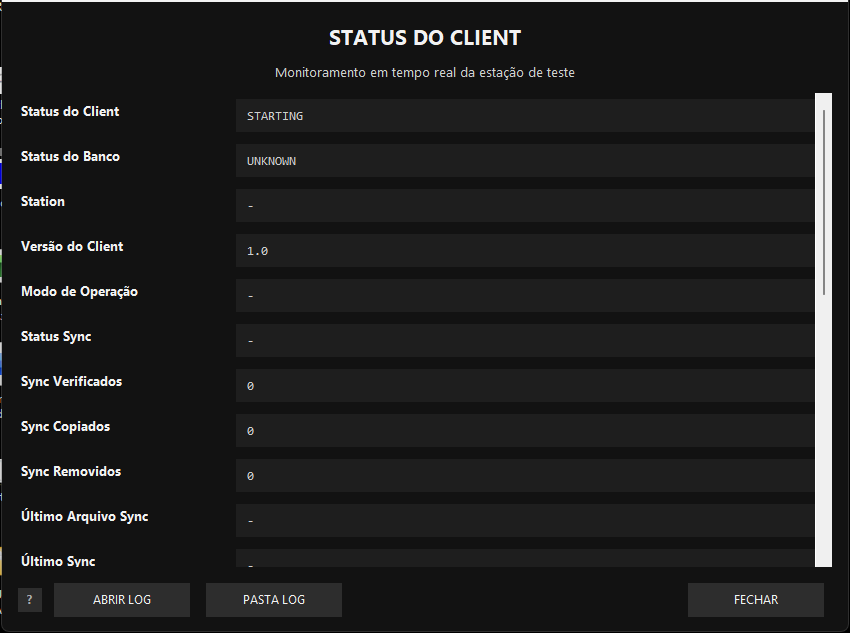
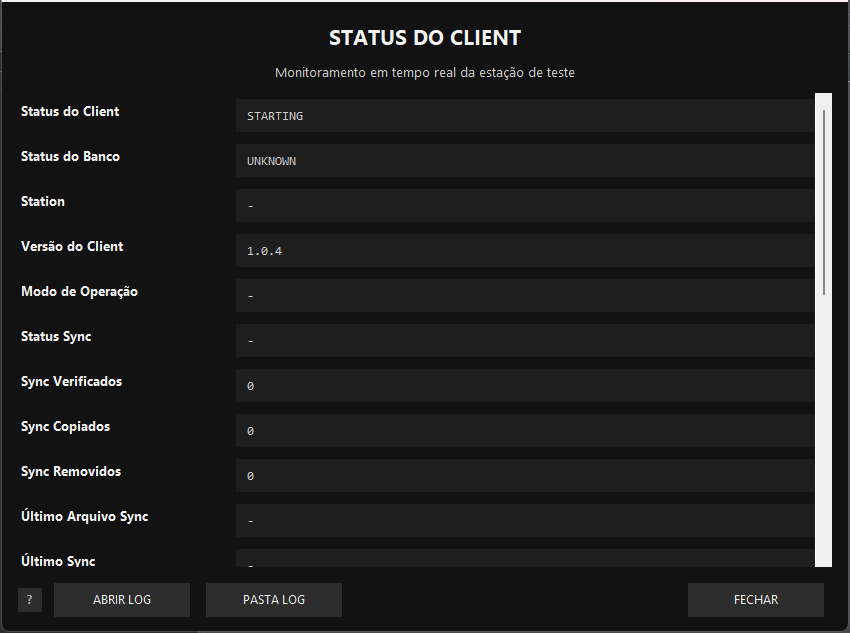
fix: estacao volta coletando sozinha apos reiniciar (auto-login + tarefa)

Changed region(s): [[0.0, 0.0, 1.0, 1.0]]

diff --git a/system/ui_main.py b/system/ui_main.py
@@ -47,6 +47,9 @@ from config.loader import load_config, load_raw_config, save_config, get_base_pa
 from monitor.file_monitor import start_monitor
 from state.app_context import runtime_status
 from system.single_instance import SingleInstance
+from logs.logger_setup import get_logger
+
+logger = get_logger()
 
 
 # -----------------------------------------------------------------------------
@@ -839,12 +842,41 @@ class MESClientUI:
 
         return result[0]
 
+    def _operador_sem_senha(self):
+        """True se o perfil OPERADOR está configurado sem senha.
+
+        Senha de operador vazia já significa, pelo próprio modelo do config,
+        'operador não precisa se autenticar'. Ler isso do disco a cada start
+        mantém a decisão nas mãos do config.yaml, não do código."""
+        try:
+            auth = load_raw_config().get("auth", {}) or {}
+            return not str(auth.get("operador_password", "") or "").strip()
+        except Exception:
+            # Config ilegível: cai no caminho seguro, que é pedir login.
+            return False
+
     def _show_login_then_start(self):
-        if not self._show_login_dialog():
+        # ARRANQUE DESACOMPANHADO
+        # ----------------------
+        # A estação roda 24h e reinicia sozinha. Se o login bloqueasse aqui,
+        # o cliente subiria na bandeja mas o monitor só começaria quando
+        # alguém clicasse ENTRAR — o PC voltaria do boot sem coletar nada,
+        # sem nenhum sinal visível de que está parado.
+        #
+        # Quando OPERADOR não tem senha, entramos direto nesse perfil. Não há
+        # perda de controle: ações restritas (CONFIG, LIMITES, MAPEAMENTO,
+        # STOP, EXIT) continuam passando por _check_role, que pede a senha de
+        # ENGENHARIA. Basta definir auth.operador_password no config.yaml para
+        # a tela de login voltar a aparecer.
+        if self._operador_sem_senha():
+            self.current_role = "operador"
+            logger.info("Auth: OPERADOR sem senha configurada - iniciando sem tela de login.")
+        elif not self._show_login_dialog():
             # os._exit(0): termina o processo imediatamente.
             # sys.exit() lançaria SystemExit que poderia ser capturado — não queremos isso
             # aqui porque o mainloop ainda não iniciou completamente.
             os._exit(0)
+
         self.ensure_monitor_running()
         runtime_status.set("client_status", "RUNNING")
         self.update_status_icon("green")

diff --git a/docs/DEPLOY.md b/docs/DEPLOY.md
@@ -131,6 +131,74 @@ antigo é preservado e continua funcionando, mas a senha continua exposta lá.
 Para migrar essas estações: crie o `.env` à mão e troque a linha `password:`
 do `config.yaml` pelo placeholder.
 
+## Auto-start: a estação voltando a coletar depois de reiniciar
+
+O instalador registra a tarefa **`MES_Client_Autostart`** no Task Scheduler.
+Três detalhes decidem se ela realmente cumpre o papel.
+
+### 1. O gatilho é logon, não boot
+
+`<LogonTrigger />` dispara quando **um usuário faz logon**, não quando a
+máquina liga. Isso é o correto para este app: ele é uma interface gráfica com
+ícone na bandeja e precisa de uma sessão de desktop — como serviço do Windows
+ele não teria onde desenhar o ícone.
+
+Consequência: se a estação reinicia e para na tela de login do Windows, o
+cliente **não sobe**. Para operação desacompanhada, configure o **logon
+automático** do Windows na conta da estação.
+
+### 2. A tarefa fica amarrada à conta que instalou
+
+O `schtasks` grava o SID do usuário que rodou o instalador em
+`<Principal><UserId>`, com `LogonType InteractiveToken`. A tarefa só dispara
+quando **aquela conta** faz logon.
+
+> **Regra prática: instale logado na conta que a estação realmente usa.**
+> Se você instalar com a sua conta de técnico e o operador entrar com outra,
+> o cliente nunca sobe sozinho.
+
+Para conferir em qual conta a tarefa ficou:
+
+```powershell
+schtasks /Query /TN "MES_Client_Autostart" /V /FO LIST | findstr /C:"Run As User"
+```
+
+Para corrigir sem reinstalar, apague e recrie a tarefa logado na conta certa:
+
+```powershell
+schtasks /Delete /TN "MES_Client_Autostart" /F
+```
+
+e reinstale, ou recrie a tarefa manualmente apontando para
+`C:\Utility\MES\MES_Client.exe`.
+
+### 3. Sem senha de operador, o cliente entra sozinho
+
+Até a v1.0.3, o cliente subia e **ficava parado na tela de login** — o monitor
+só começava quando alguém clicava ENTRAR. Uma estação reiniciada de madrugada
+passava a noite inteira sem coletar, com o ícone aparentemente normal.
+
+A partir da v1.0.4, se `auth.operador_password` estiver vazio ou ausente no
+`config.yaml`, o cliente entra direto como OPERADOR e o monitor começa. O log
+registra a decisão:
+
+```
+Auth: OPERADOR sem senha configurada - iniciando sem tela de login.
+```
+
+As ações restritas continuam protegidas: CONFIG, LIMITES, MAPEAMENTO, STOP e
+EXIT pedem a senha de ENGENHARIA. **Se você definir `operador_password`, a
+tela de login volta a aparecer** — e aí a estação passa a exigir intervenção
+humana após cada reinicialização. Para operação 24h, deixe vazio.
+
+### O que a tarefa não cobre
+
+`RestartOnFailure` (3 tentativas, 1 min) só reage se o processo **terminar**.
+Um travamento com o processo vivo — o sintoma registrado em 03/09/2026:
+processo em pé, 0 s de CPU, sem escrever `client.log` nem `offsets.json` — não
+é detectado. Até existir um watchdog, o sinal de saúde confiável é o
+`last_insert_time` na tela STATUS ou a data de modificação do `client.log`.
+
 ## Verificação pós-instalação
 
 1. Ícone da bandeja **verde** = monitor ativo, dados sendo enviados.

diff --git a/CHANGELOG.md b/CHANGELOG.md
@@ -77,6 +77,25 @@ comportamento visível ao operador é o mesmo, exceto onde ele antes perdia dado
   `gerar_documentacao.py`) e `pytest` saíram das dependências de execução; o
   operador na estação não precisa deles.
 
+### Corrigido — a estação não voltava coletando depois de reiniciar
+
+- **A tela de login travava o monitor no arranque.** O `run()` agendava
+  `_show_login_then_start`, que bloqueava em `wait_window()` até alguém
+  escolher o perfil e clicar ENTRAR — só então `ensure_monitor_running()` era
+  chamado. Numa estação que roda 24h e reinicia sozinha, isso significava
+  voltar do boot com o ícone na bandeja e **nenhum dado sendo coletado**, sem
+  sinal visível de que estava parado. Agora, quando `auth.operador_password`
+  está vazio (ou ausente), o cliente entra direto como OPERADOR e inicia o
+  monitor. Não há perda de controle: CONFIG, LIMITES, MAPEAMENTO, STOP e EXIT
+  continuam passando por `_check_role`, que pede a senha de ENGENHARIA. Definir
+  `operador_password` no `config.yaml` faz a tela de login voltar a aparecer.
+- **A tarefa de auto-start herdava padrões que impediam a coleta.** O XML não
+  declarava as opções de energia, e o Task Scheduler aplicava
+  `DisallowStartIfOnBatteries=true` e `StopIfGoingOnBatteries=true`. Numa
+  estação ligada a nobreak que se reporta como bateria, o cliente não subiria.
+  Agora ambos vão explícitos como `false`, junto de `StopOnIdleEnd=false` e
+  `StartWhenAvailable=true`.
+
 ### Instalador
 
 - **Atualizar uma estação apagava a configuração dela.** O `GenerateConfig` do
